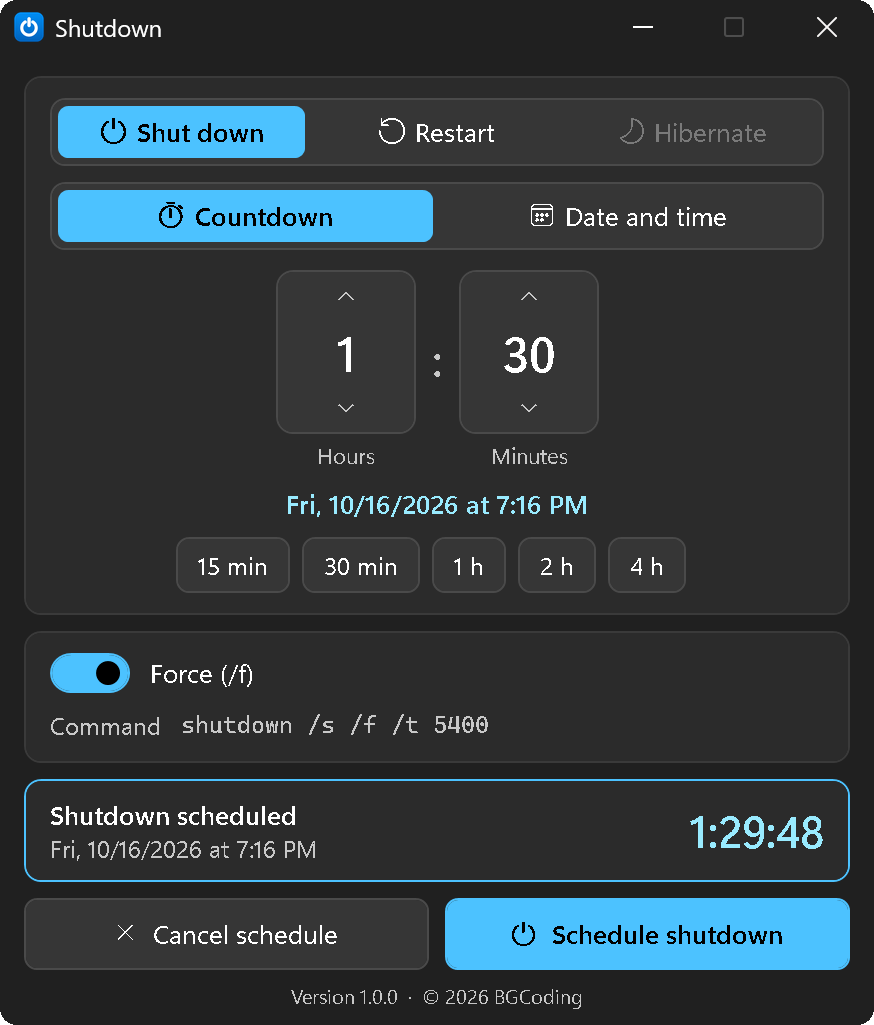
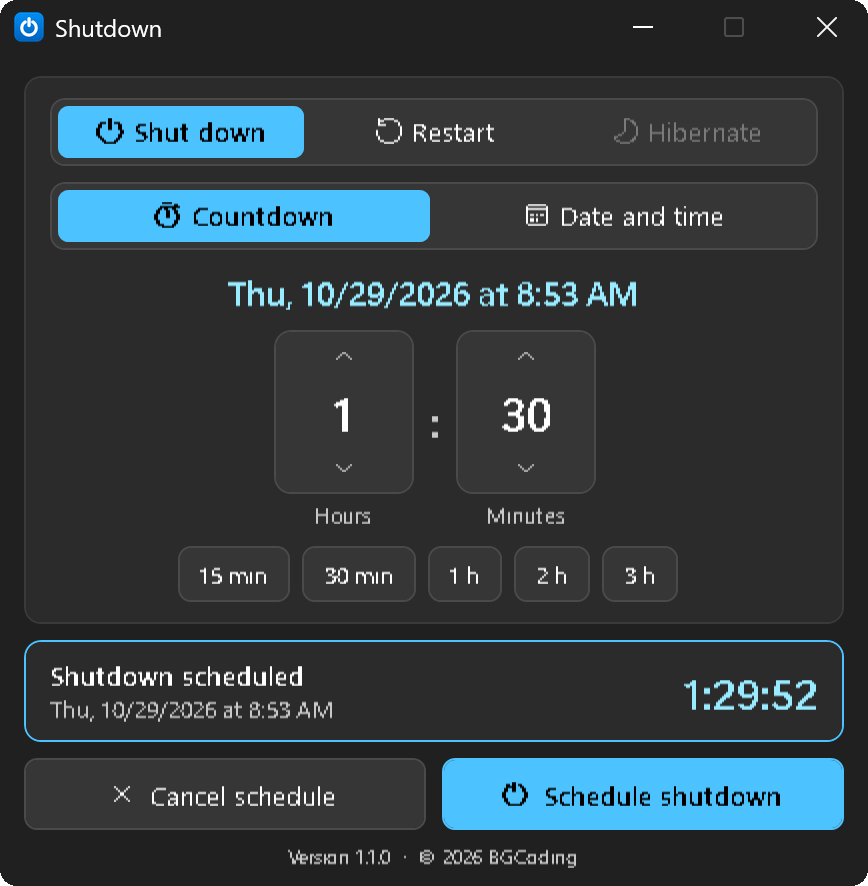
Release 1.1.0
New screenshot and social preview for the reworked layout.

diff --git a/README.md b/README.md
@@ -44,7 +44,7 @@ certutil -hashfile Shutdown-<version>-windows.exe SHA256
 | Shut down or restart | Windows itself: `shutdown /s /f /t <seconds>` (`/r` for restart) | Yes |
 | Hibernate | The app counts down, then runs `shutdown /h /f` | No, keep it open |
 
-Open apps are always closed, even with unsaved work: Windows forces this whenever a timeout is set. Windows has no timer for hibernate, so the app times it itself. Closing the window then asks first, and the PC is kept from going to sleep on its own until the time is up. If you put the PC to sleep by hand and it wakes more than two minutes after the target time, nothing runs and the app tells you so.
+Shutting down or restarting always closes open apps, even with unsaved work: Windows forces this whenever a timeout is set. Windows has no timer for hibernate, so the app times it itself. Closing the window then asks first, and the PC is kept from going to sleep on its own until the time is up. If you put the PC to sleep by hand and it wakes more than two minutes after the target time, nothing runs and the app tells you so.
 
 Starting the app a second time brings the open window to the front.
 

diff --git a/CHANGELOG.md b/CHANGELOG.md
@@ -2,7 +2,7 @@
 
 All notable changes to this project are documented here. The format follows Keep a Changelog; versions follow semantic versioning.
 
-## [Unreleased]
+## [1.1.0] - 2026-10-29
 
 ### Changed
 - The target date and time (or the time left, for a date) is shown larger, right above the time fields.
